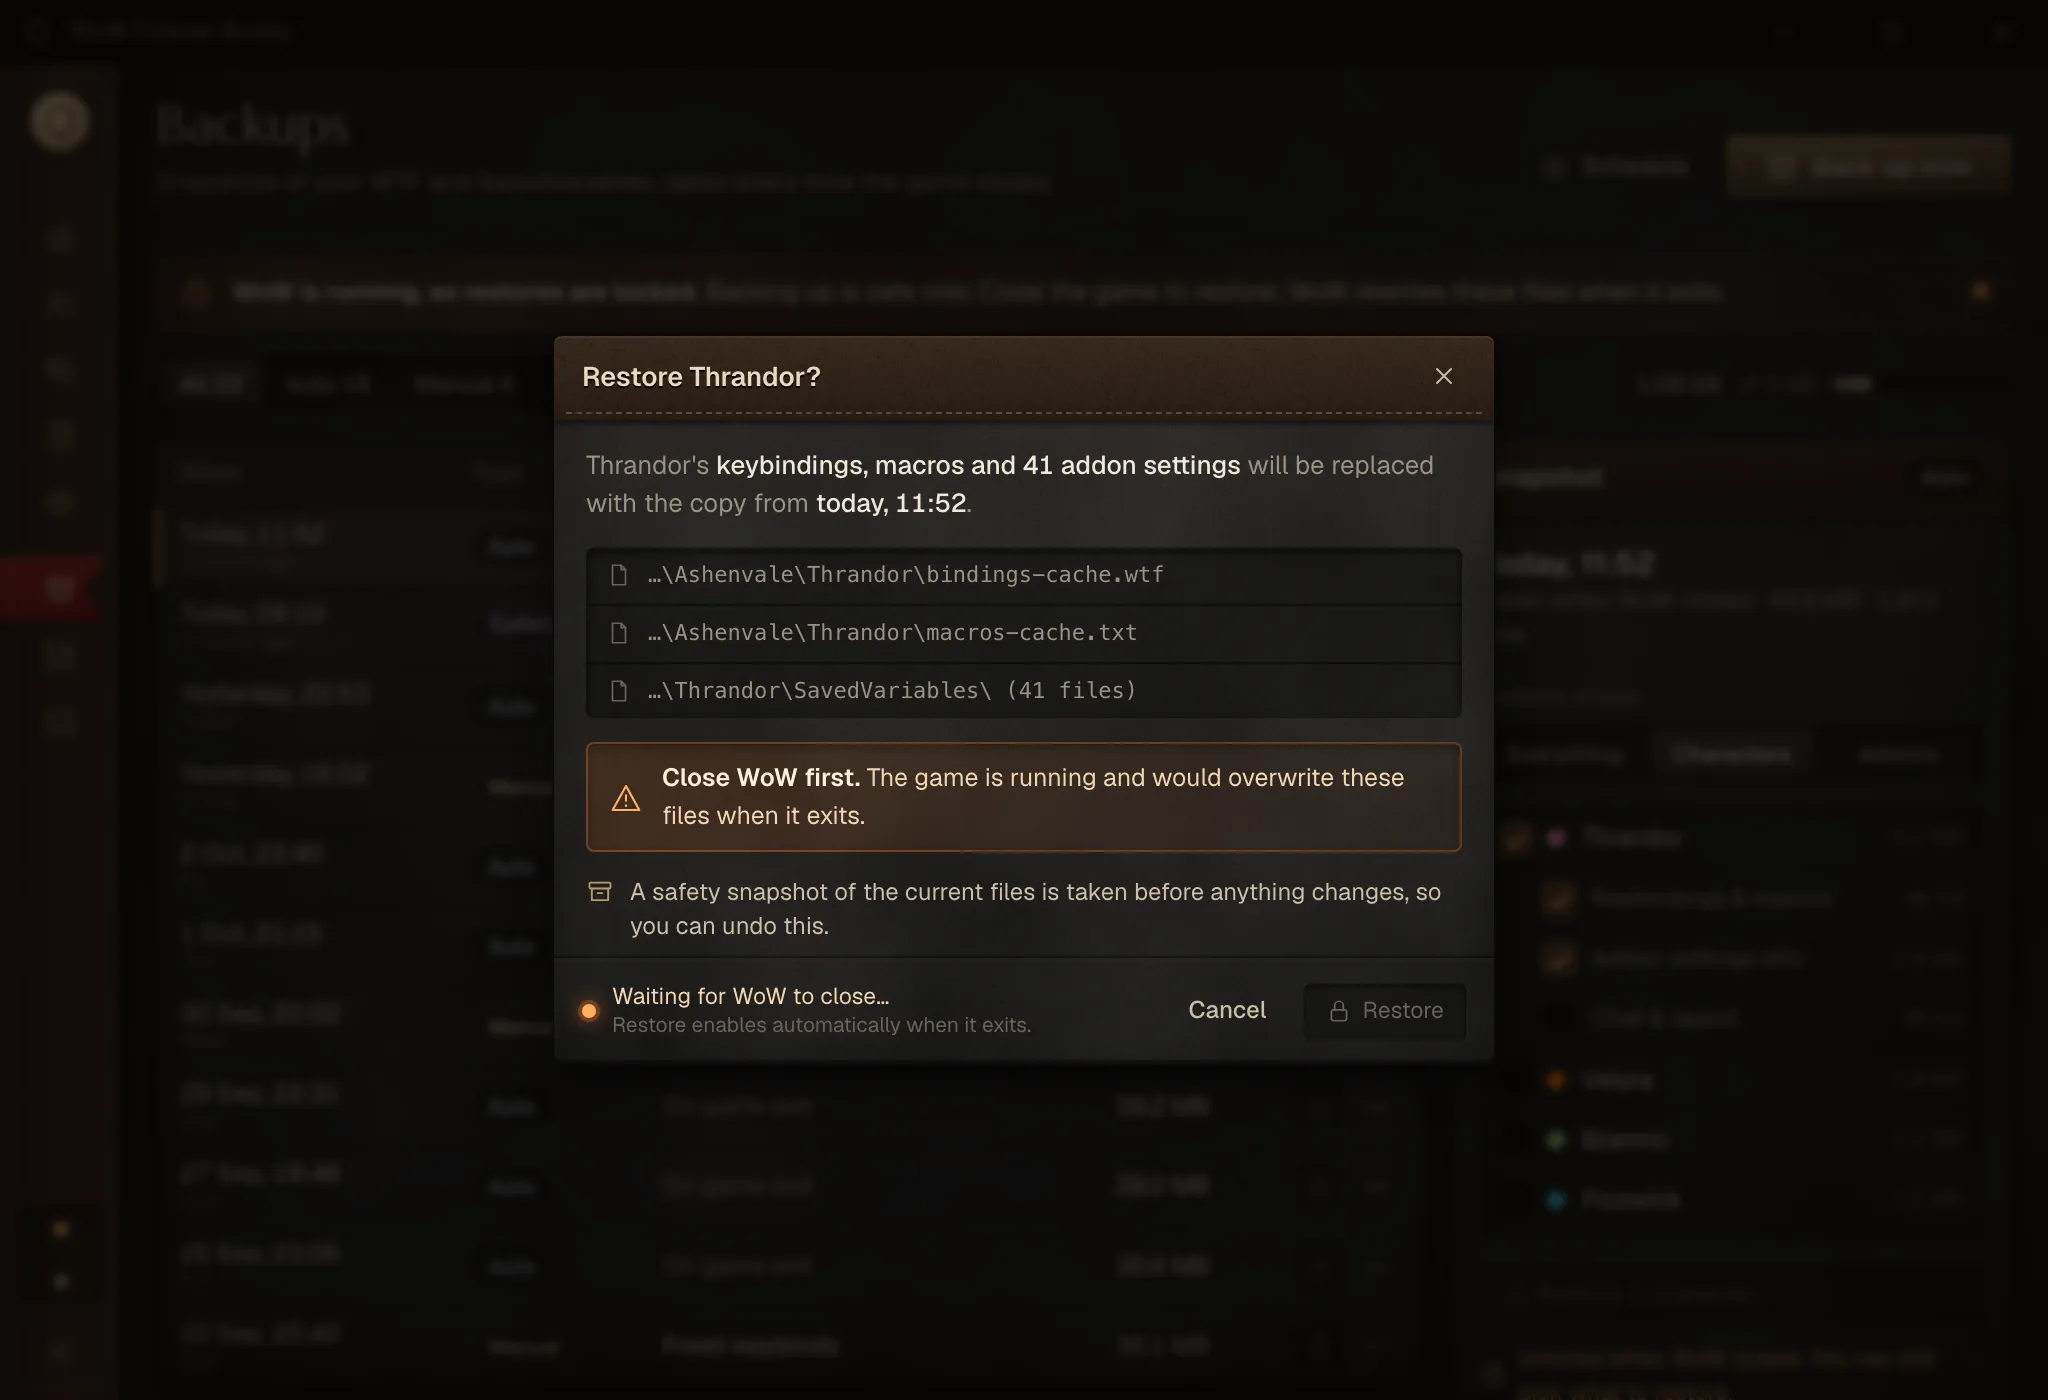
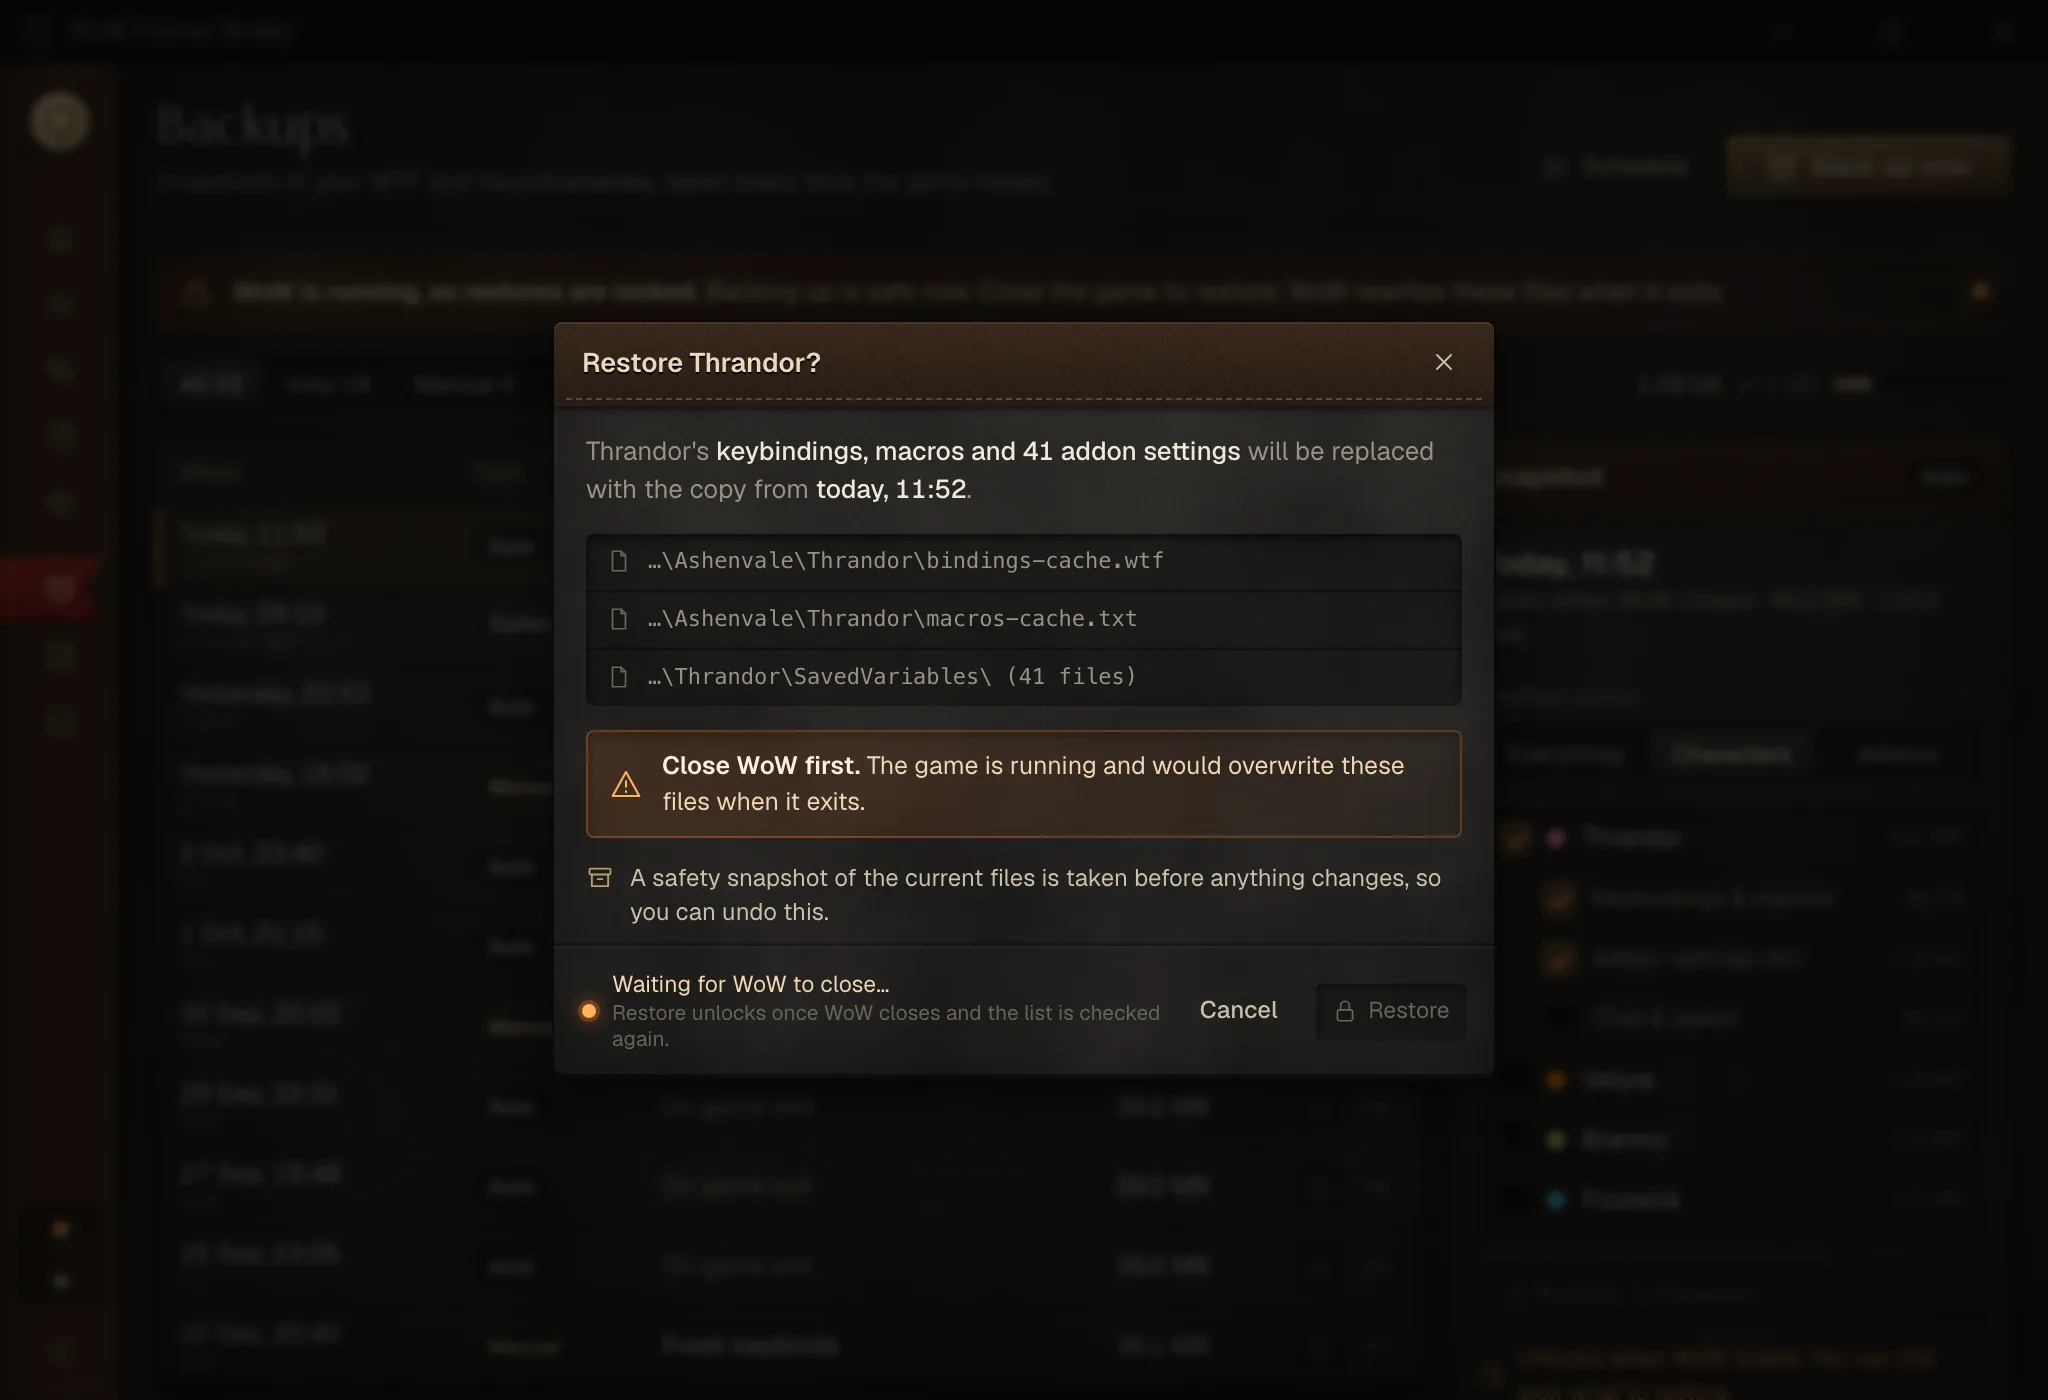
IMPLEMENTING: re-check the restore plan after WoW closes; hide Contents while panel open
Per @reviewer's T11 item 1: the confirm footer has three steps (waiting,
'WoW closed. Checking what changed…', then enabled on a fresh plan), and
a changed plan is re-shown with 'The list changed after WoW closed.'
Restore never enables on a plan the user hasn't seen. Also hide the
Contents column while the snapshot panel is open (PM item 3).

Changed region(s): [[0.2812, 0.3071, 0.7188, 0.7679], [0.25, 0.215, 0.75, 0.2764], [0.6562, 0.7064, 0.7188, 0.7371]]

diff --git a/design/mocks/round-3/backups.html b/design/mocks/round-3/backups.html
@@ -138,7 +138,7 @@
         <div class="safety"><i data-i="archive"></i><span>A safety snapshot of the current files is taken before anything changes, so you can undo this.</span></div>
       </div>
       <div class="foot">
-        <span class="waiting"><span class="live"></span><span>Waiting for WoW to close…<small>Restore enables automatically when it exits.</small></span></span>
+        <span class="waiting"><span class="live"></span><span>Waiting for WoW to close…<small>Restore unlocks once WoW closes and the list is checked again.</small></span></span>
         <button class="btn ghost">Cancel</button>
         <span class="lockact" style="height:28px;padding:0 11px"><i data-i="lock"></i>Restore</span>
       </div>

diff --git a/design/mocks/round-3/IMPLEMENTING.md b/design/mocks/round-3/IMPLEMENTING.md
@@ -49,14 +49,14 @@ The spec's CSP (`default-src 'self'; img-src 'self' asset: data:; style-src 'sel
 | Filter | Segmented control: "All 23 · Auto 18 · Manual 4 · Safety 1". |
 | Type labels | `manual` → Manual. `app_start`, `game_exit`, `scheduled` → Auto. `pre_write`, `pre_restore` → Safety. |
 | Retention and budget | Show `backup_storage().retention_summary` **verbatim**, then "1.08 GB of 5 GB" with a meter. |
-| Table | Columns: When (with relative time underneath), Type, Note, Contents, Size, actions. |
+| Table | Columns: When (with relative time underneath), Type, Note, Contents, Size, actions. While the snapshot panel is open, hide Contents (the panel shows it), so dates don't wrap at 1280px. |
 | Note column | Auto snapshots read "On game exit" and the like. Safety snapshots use their generated label ("Before restoring **Velyra**"). Manual snapshots use the user's label in bold. Mid-session manual snapshots add "taken mid-session". |
 | Row actions | Restore is a `LockedAction` while WoW runs, plus a "more" menu. |
 | Snapshot panel | Title (date and time), "Taken when WoW closed · 48.2 MB · 1,912 files", scope `Segmented` (Everything / Characters / Addons). |
 | Restore tree | Checkboxes with aggregate sizes from `backup_get`: Character, then "Keybindings & macros", "Addon settings (41)", "Chat & layout". |
 | Restore button | "Restore 1 character…" as a `LockedAction`, with "Unlocks when WoW closes. You can still pick what to restore." |
 | Confirm dialog | "Restore Thrandor?". The one-line summary from `restore_preview`, the grouped file list, and **deletions listed separately with their own count** (mirror mode). "A safety snapshot of the current files is taken before anything changes, so you can undo this." |
-| Confirm while running | Footer reads "Waiting for WoW to close…" with "Restore enables automatically when it exits." Restore enables on `game://status-changed` but never runs by itself. |
+| Confirm while running | Three footer steps. (a) While WoW runs: "Waiting for WoW to close…" with a live dot, and Restore locked. (b) Once WoW closes, until a fresh `restore_preview` and the `backup-created` event have both arrived: "WoW closed. Checking what changed…", with Restore still locked. (c) The fresh plan has loaded: Restore enables. If the fresh plan differs from the one shown (deletions or file count changed), re-render the lists and add one ember line, "The list changed after WoW closed. Please check it again." Never enable Restore on a plan the user hasn't seen, and never run without a click. |
 | Backup failed | One red callout, "Today's 14:20 backup didn't finish: drive D: is full.", with Retry and "Change location…". Also a Failed row at the top of the table. |
 | Damaged snapshot | Dialog "This snapshot is damaged". "Nothing was changed. We stop before writing a single file." Lists the files, then "Verify all snapshots", Cancel, and "Use 1 Oct, 21:15 instead". |
 | Interrupted restore | Startup dialog "Your last restore didn't finish" with Roll back (recommended, primary), Finish restore, and two ghost actions in the footer. "Leave files as they are" is `discard`: it changes nothing and keeps the safety copy, and its tooltip says so. "Decide later" shows a persistent stone banner on Dashboard and Backups; all restores stay locked (`RestorePending`) and backups keep running. |
